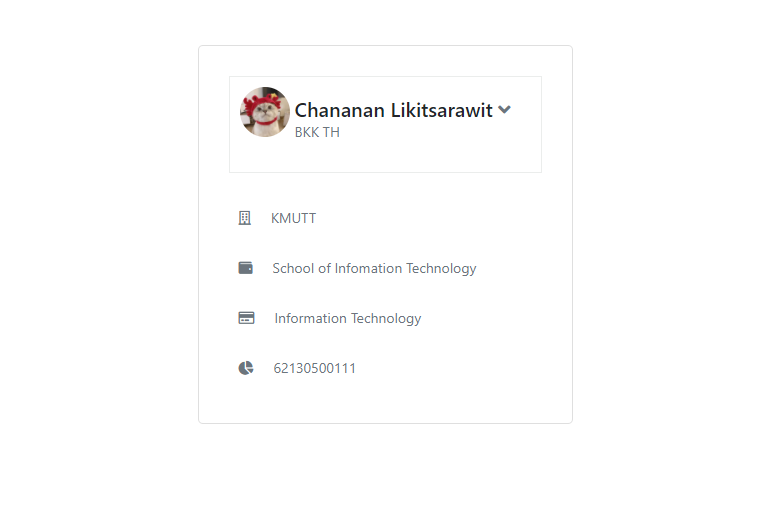
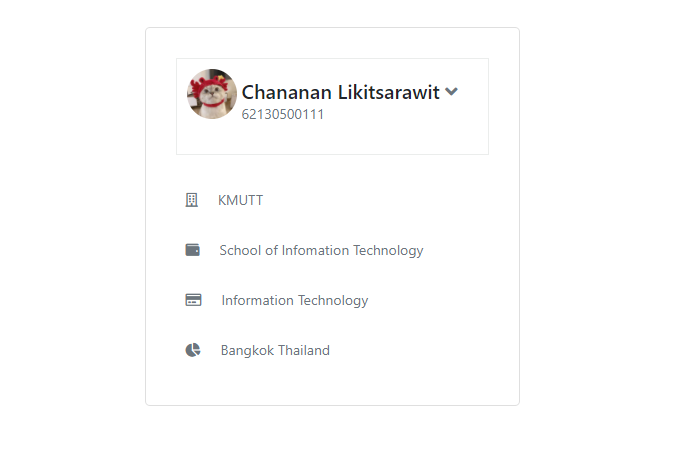
[Update]

diff --git a/62130500111_Groupwork_2/style.css b/62130500111_Groupwork_2/style.css
@@ -1,6 +1,6 @@
 body {
     background-color: #EEEFF3;
-    font-family: 'Poppins', sans-serif
+    font-family: 'Kanit', sans-serif
 }
 
 .card {
